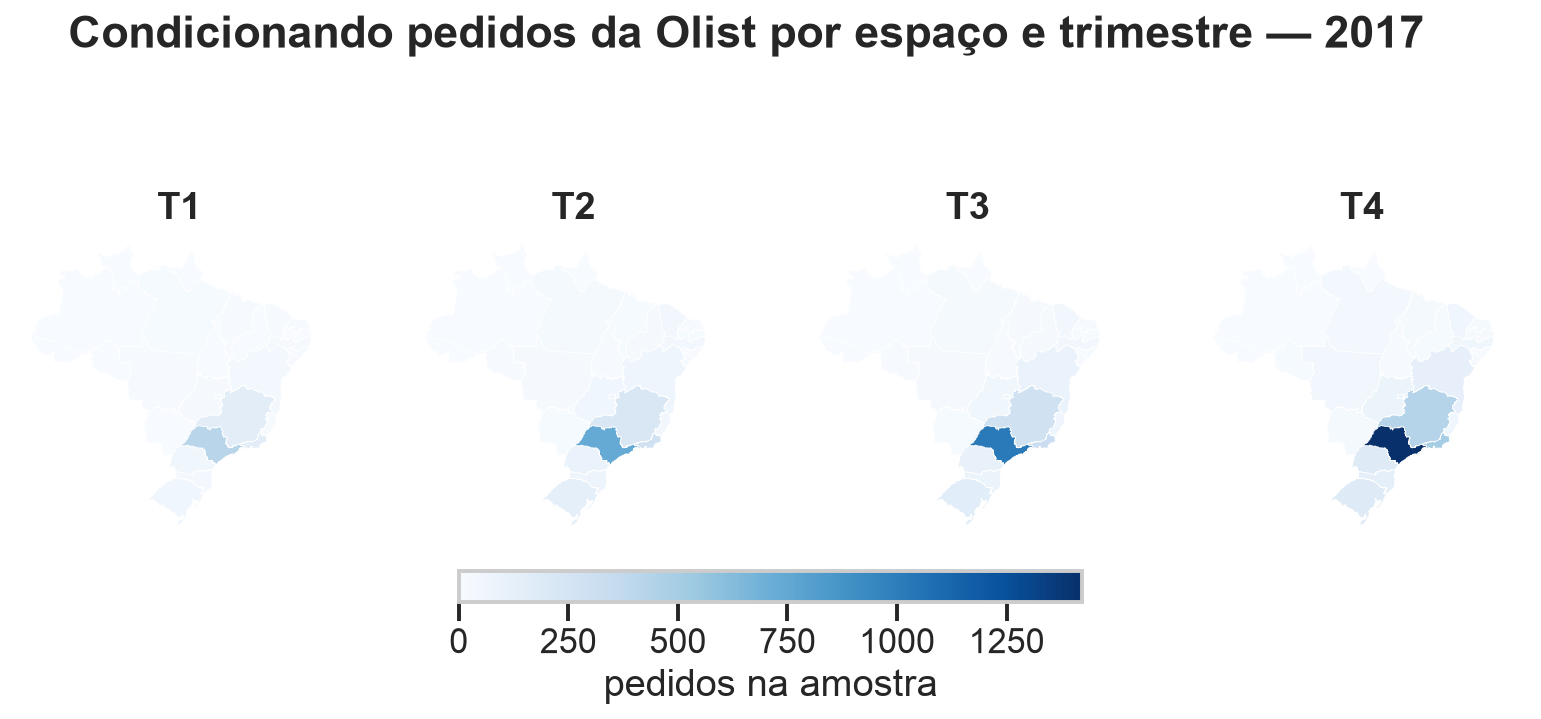
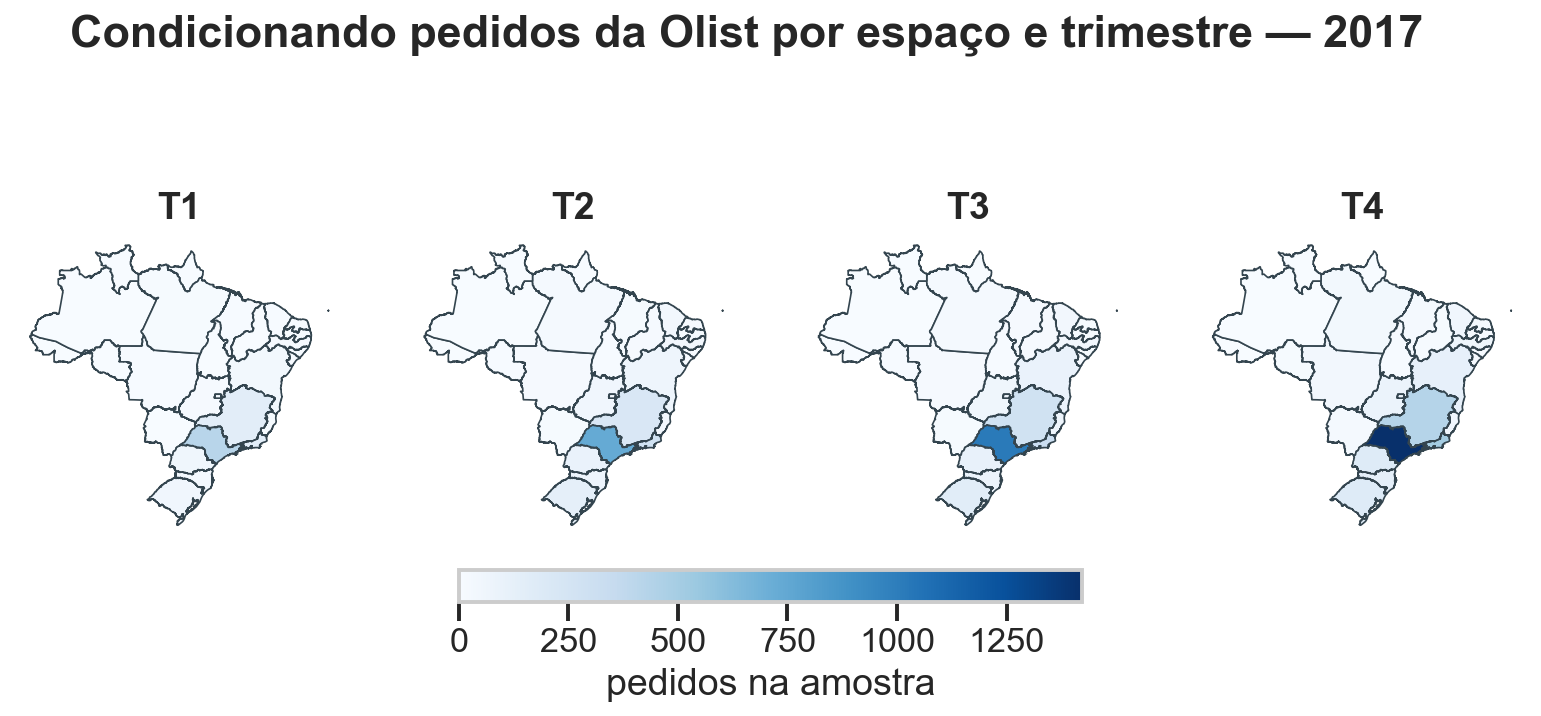
Reorganiza exemplos e destaca mapa da Aula 06

diff --git a/exemplos/06-boas-praticas-visualizacao/generate_figures.py b/exemplos/06-boas-praticas-visualizacao/generate_figures.py
@@ -98,7 +98,13 @@ for ax,label in zip(axes,["T1","T2","T3","T4"]):
         uf=feature["properties"]["sigla"]
         for polygon in feature["geometry"]["coordinates"]:
             patches.append(Polygon(np.asarray(polygon[0]),closed=True)); colors.append(values.get(uf,0))
-    coll=PatchCollection(patches,cmap="Blues",norm=Normalize(0,vmax),edgecolor="white",linewidth=.35)
+    coll=PatchCollection(
+        patches,
+        cmap="Blues",
+        norm=Normalize(0,vmax),
+        edgecolor="#34454f",
+        linewidth=.8,
+    )
     coll.set_array(np.asarray(colors)); ax.add_collection(coll); ax.autoscale_view(); ax.set_aspect("equal"); ax.axis("off"); ax.set_title(label)
 fig.colorbar(coll,ax=axes,orientation="horizontal",fraction=.06,pad=.06,label="pedidos na amostra")
 fig.suptitle("Condicionando pedidos da Olist por espaço e trimestre — 2017",fontweight="bold")
